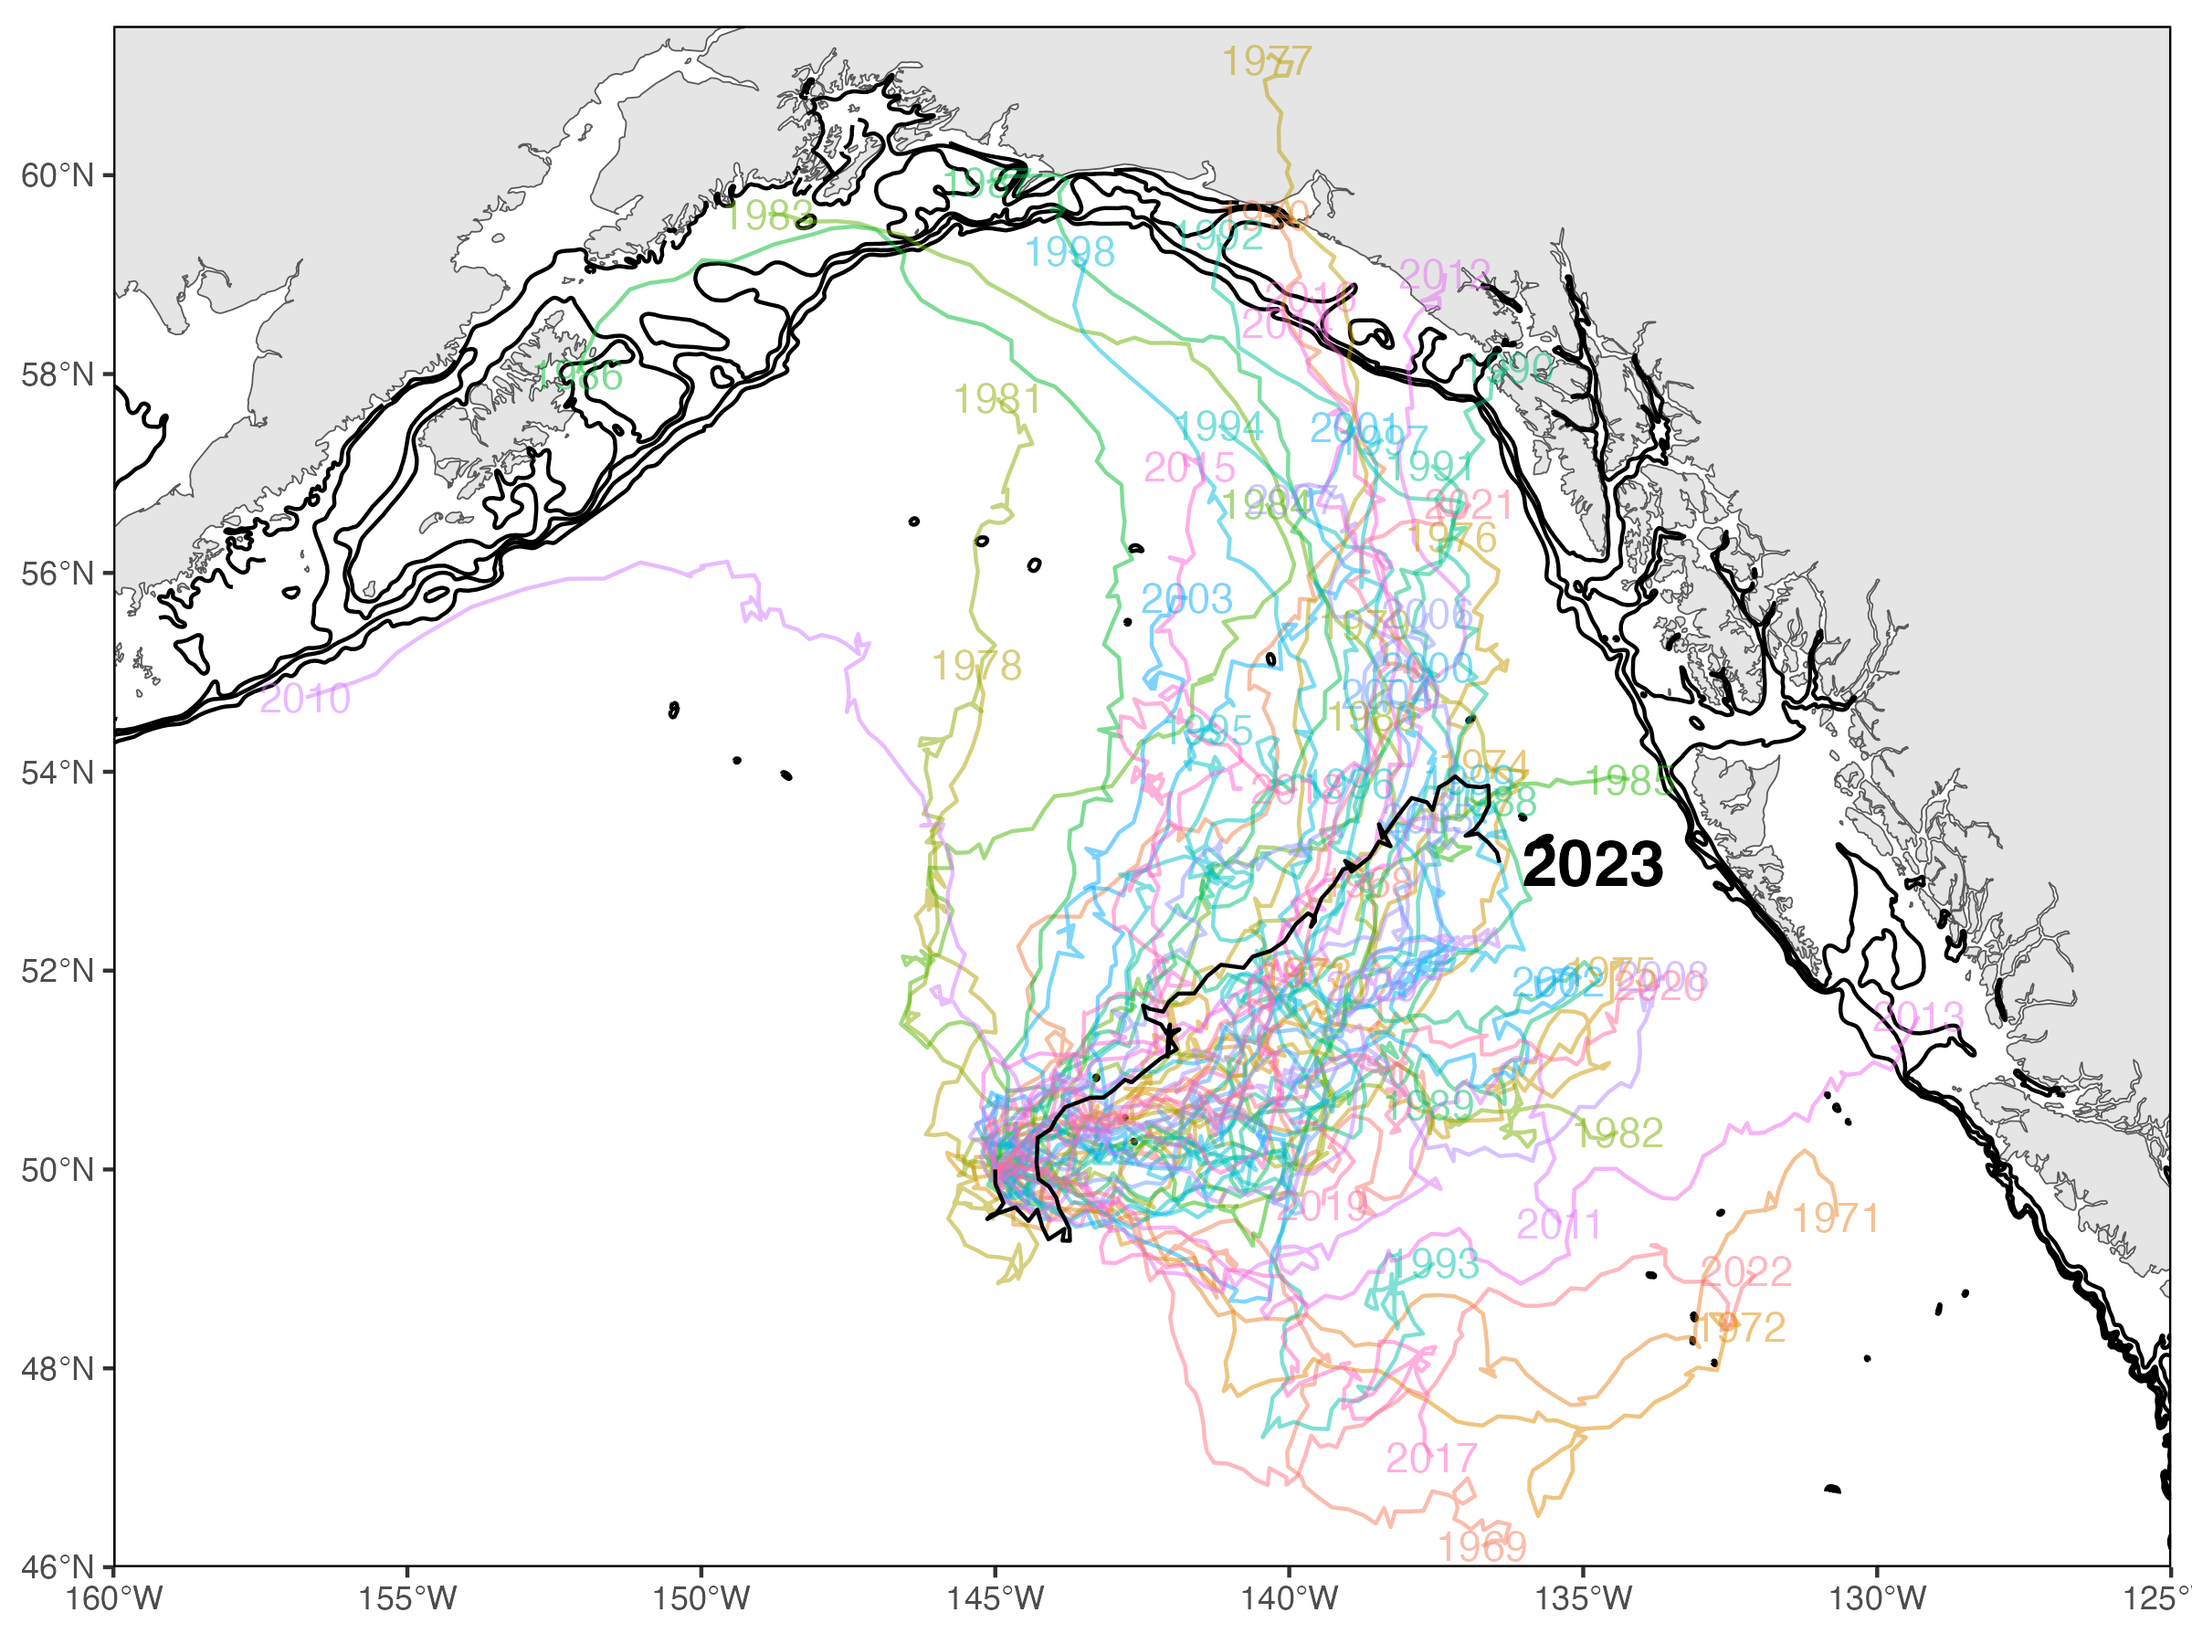
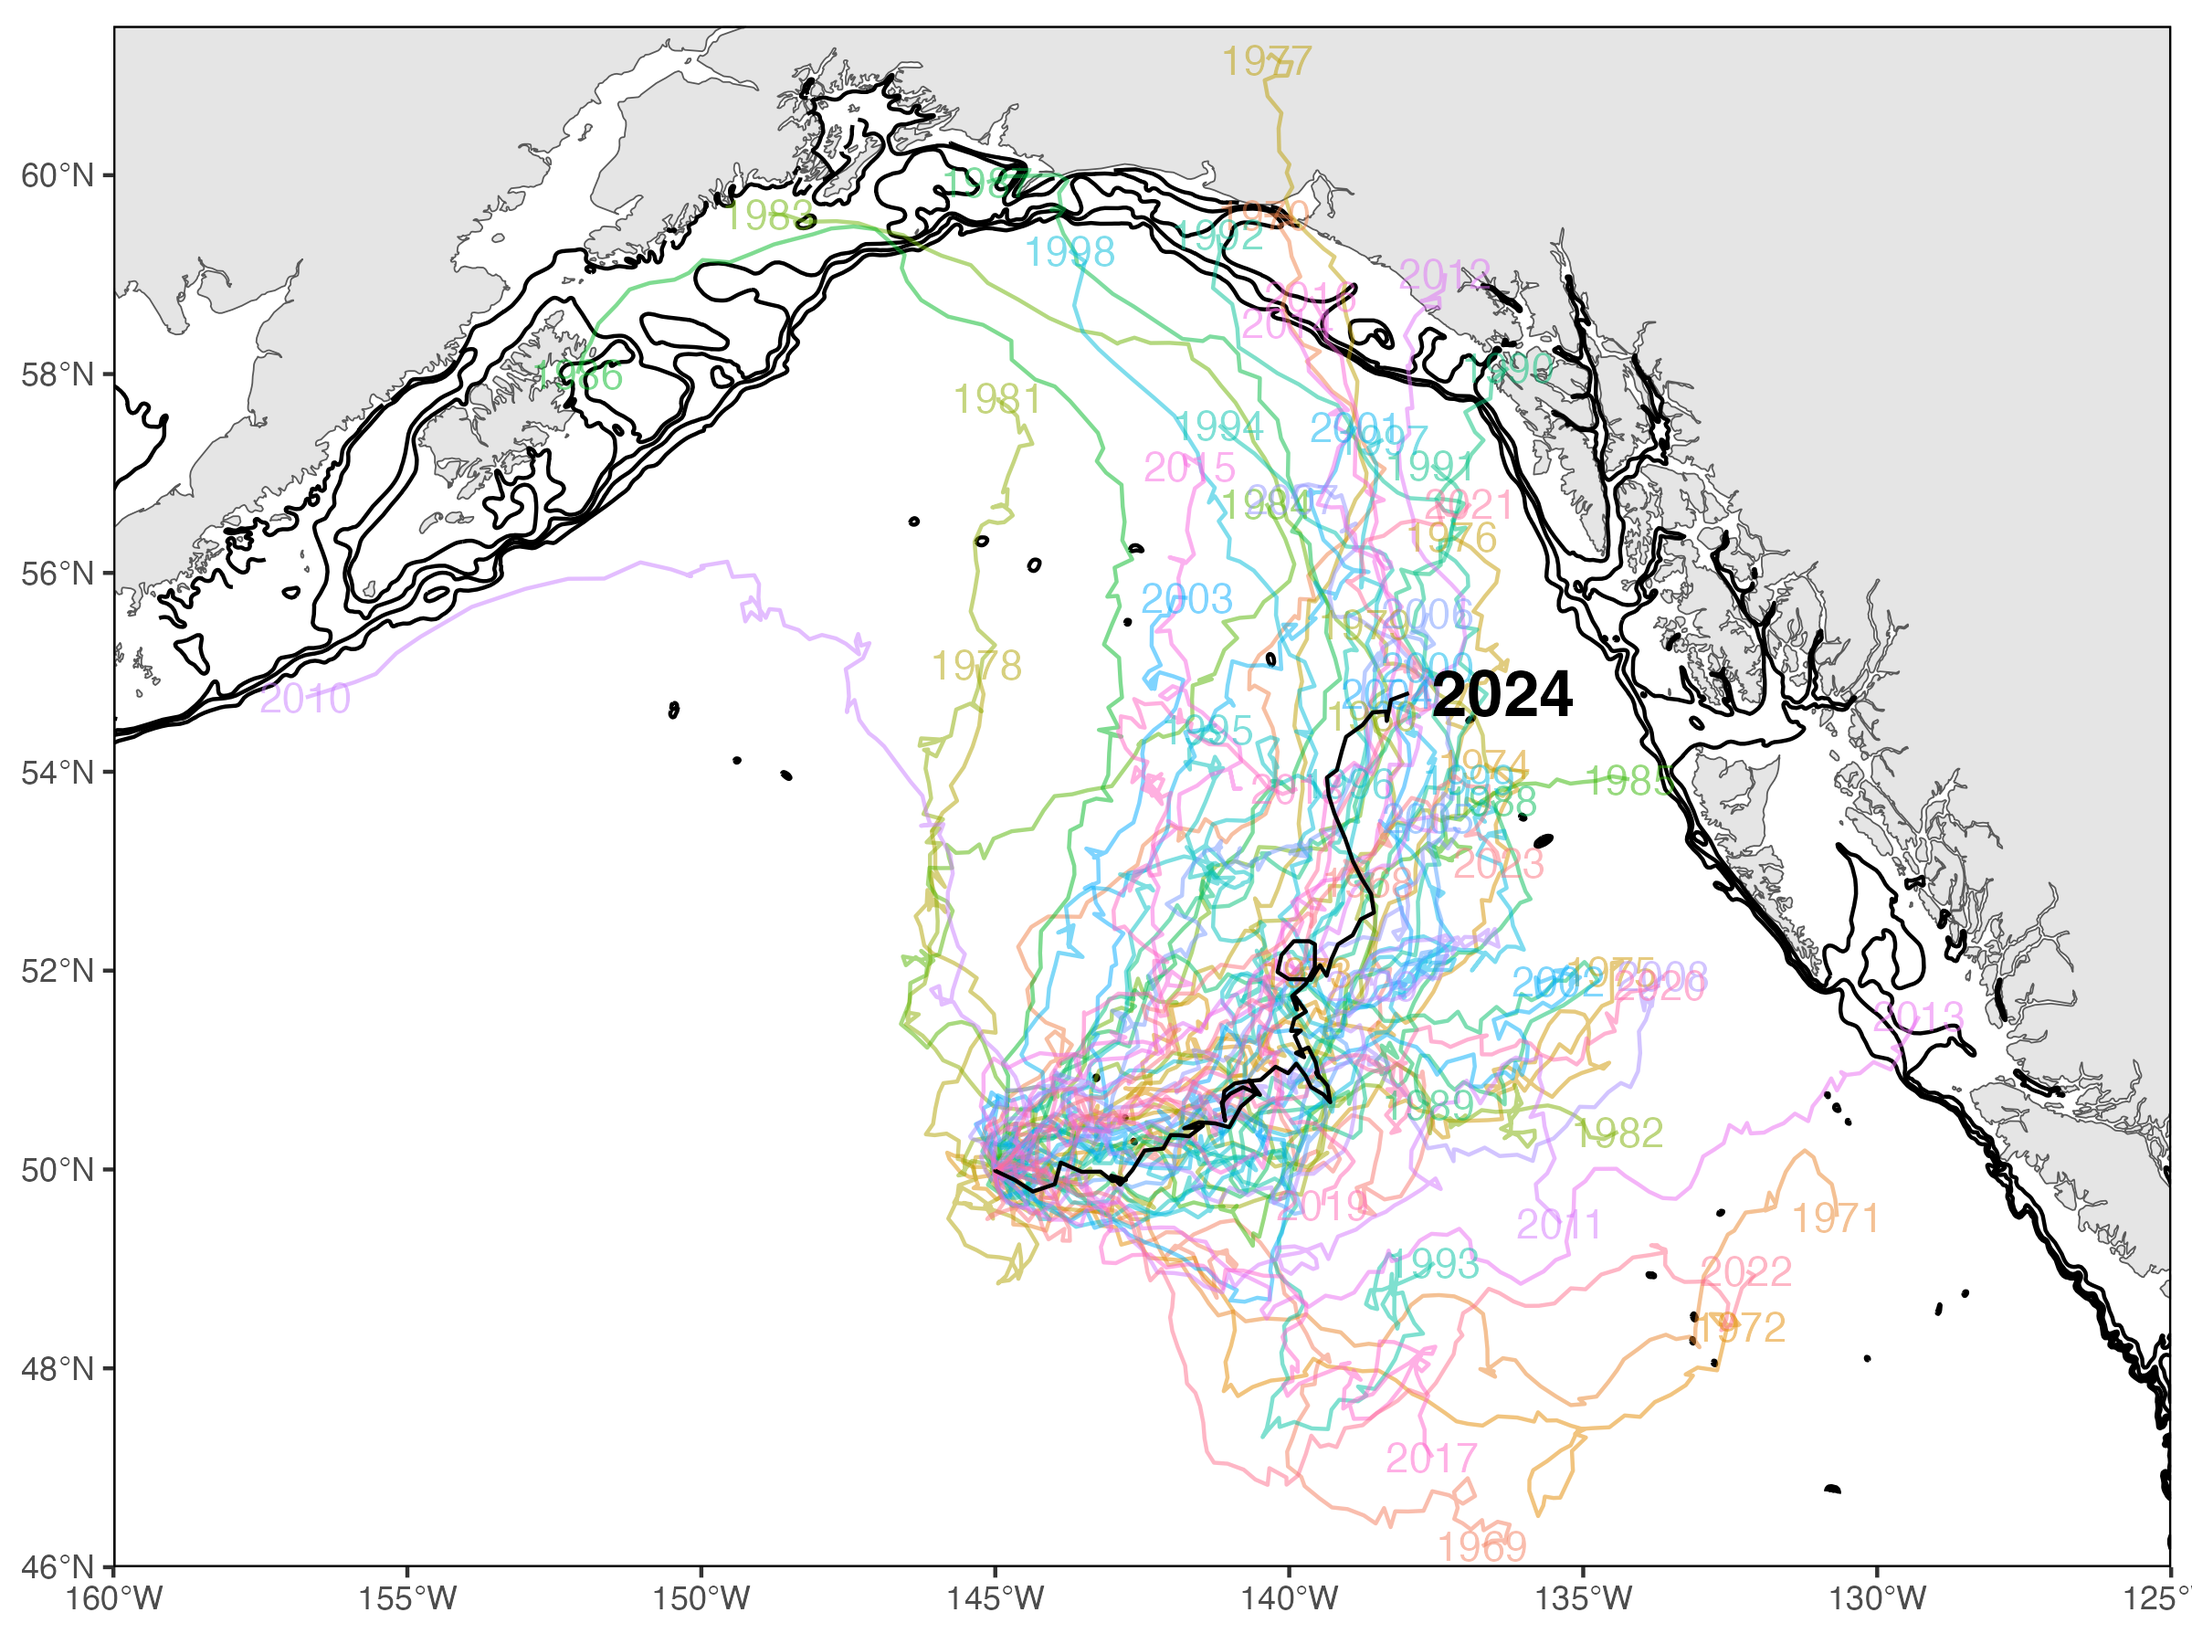
Updated all for 2024 except Word file in ./Text.

Changed region(s): [[0.4375, 0.4667, 0.7812, 0.7467], [0.625, 0.4044, 0.7188, 0.4356]]

diff --git a/README.md b/README.md
@@ -6,7 +6,7 @@ Repo for PAPA Trajectory Index code and results.
 
 The year-to-year variability in near-surface water movements in the North Pacific Ocean has been shown to have important effects on the survival of walleye pollock (*Theragra chalcogramma*) by affecting its spatial overlap with predators (Wespestad2000), as well as to influence recruitment success of winter spawning flatfish in the eastern Bering Sea (EBS; Wilderbuer2002). The PAPA Trajectory Index (PTI) provides an annual index reflecting broad-scale winter circulation in the northeast Pacific Ocean and Gulf of Alaska based on the 
 end location of a simulated surface drifter released on December 1 and tracked for 90 days (i.e., ending on February 29 or March 1 of the subsequent year,
-dependent on whether the ending year is a leap year or not), based on the trajectory of a simulated surface drifter released at Ocean Station Papa (50^o^N, 145^o^W). The simulation for each year is conducted using the “Ocean Surface CURrent Simulator” (OSCURS; http://oceanview.pfeg.noaa.gov/oscurs). Using daily gridded atmospheric pressure fields, OSCURS calculates the speed and direction of water movement at the ocean’s surface at the location of a simulated surface drifter. It uses this information to update the position of the simulated drifter on a daily basis over a specified time period. For the index presented here, OSCURS was run for 90 days to simulate a surface drifter released at Ocean Station Papa on December 1 for each year from 1901 to the current 2021.
+dependent on whether the ending year is a leap year or not), based on the trajectory of a simulated surface drifter released at Ocean Station Papa (50^o^N, 145^o^W). The simulation for each year is conducted using the “Ocean Surface CURrent Simulator” (OSCURS; http://oceanview.pfeg.noaa.gov/oscurs). Using daily gridded atmospheric pressure fields, OSCURS calculates the speed and direction of water movement at the ocean’s surface at the location of a simulated surface drifter. It uses this information to update the position of the simulated drifter on a daily basis over a specified time period. For the index presented here, OSCURS was run for 90 days to simulate a surface drifter released at Ocean Station Papa on December 1 for each year from 1901 to the current 2024.
 
 The PTI itself is based on the ending latitude of the simulated drifter in each year. Filtered PTI values greater than the long-term mean are indicative of increased transport and/or a northerly shift in the Alaska Current, which transports warm water northward along the west coast of Canada and southeast Alaska from the south and consequently plays a major role in the Gulf of Alaska’s heat budget. Interdecadal changes in the PTI reflect changes in ocean climate that appear to have widespread impacts on biological variability at multiple trophic levels (King2005). There is strong evidence that the productivity and possibly the carrying capacity of the Alaska Gyre and of the continental shelf were enhanced during the “warm” regime that began in 1977. Zooplankton production was positively affected after the 1977 regime shift (Brodeur1992), as were recruitment and survival of salmon and demersal fish species. Recruitment of rockfish (Pacific ocean perch) and flatfish (arrowtooth flounder, halibut, and flathead sole) also increased. However, shrimp and forage fish such as capelin were negatively affected by the 1977 shift (Anderson2003). The reduced availability of forage fish may have contributed to the decline in marine mammal and seabird populations observed after the 1977 shift (Piatt1996). 
 
@@ -14,10 +14,10 @@ The PTI itself is based on the ending latitude of the simulated drifter in each 
 ## Curent Results 
 
 The following shows the drifter trajectories for all years since 1968: trajectories older than 10 years are in grey, trajectories during the last 10 years are in color, and the trajectory for the previous winter is in black:
-<img src="CurrentResults/fig_1_mapAll.png" width="600" alt="map of all trajectories">
+<img src="ResultsCurrent/fig_1_mapAll.png" width="600" alt="map of all trajectories">
 
 The actual PTI is shown in the following figure:
-<img src="CurrentResults/fig_2_PTI.png" width="600" alt="graph of the PAPA Trajectory Index">
+<img src="ResultsCurrent/fig_2_PTI.png" width="600" alt="graph of the PAPA Trajectory Index">
 
 
 ### NOAA README
